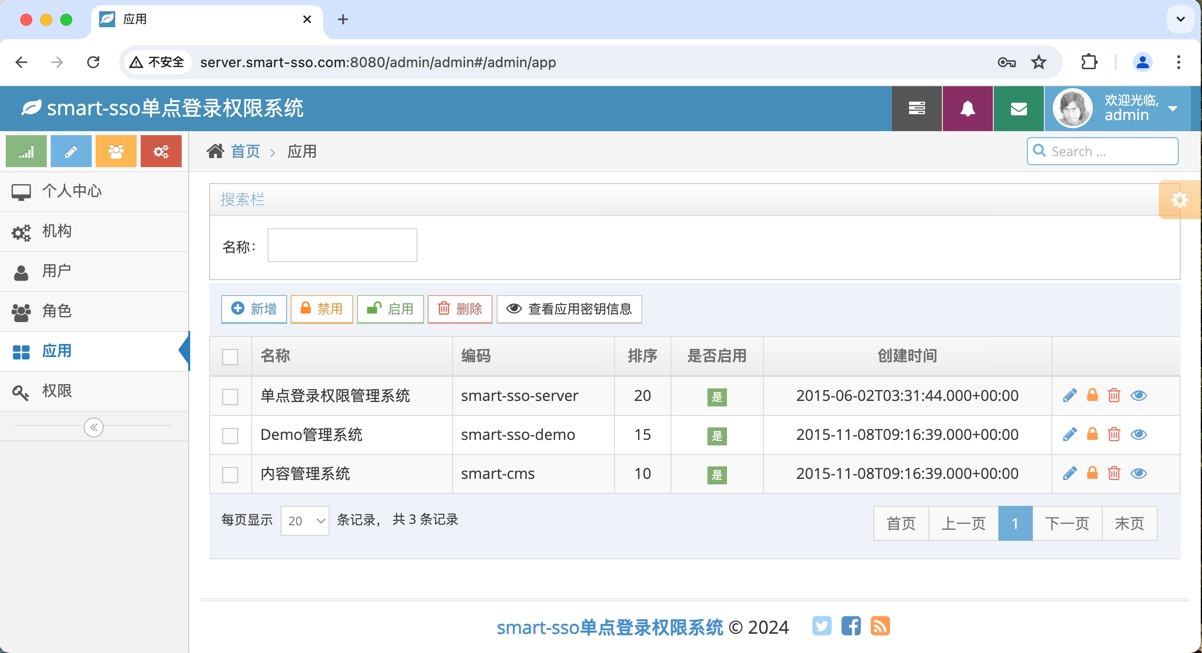
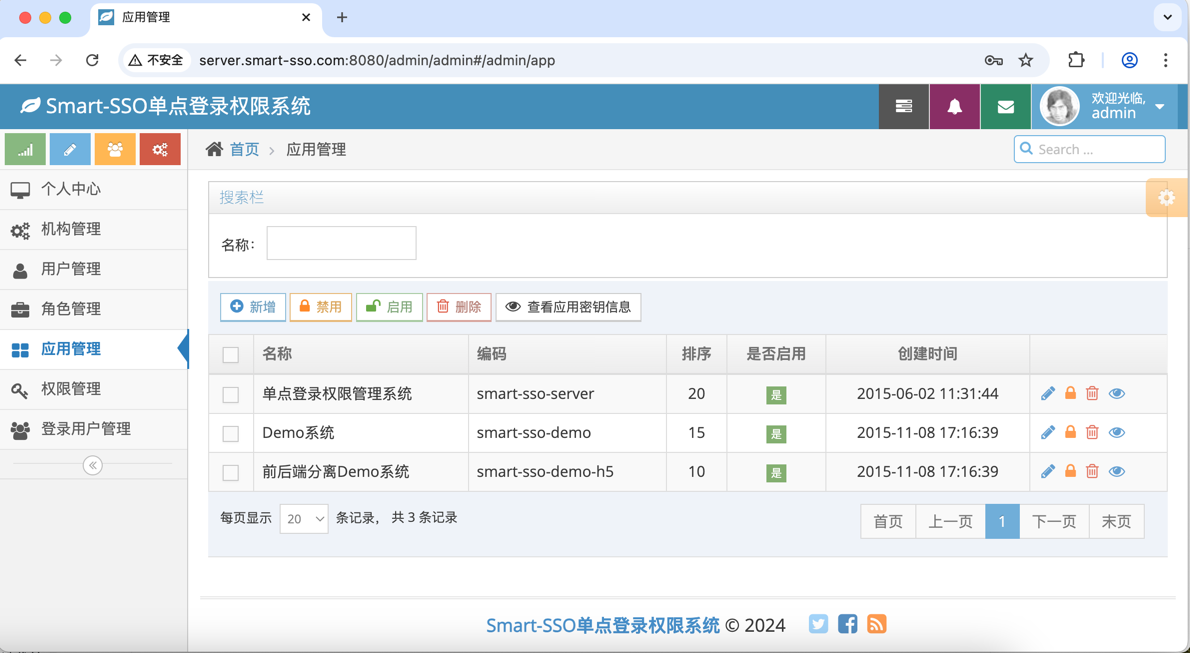
踢人下线
(cherry picked from commit cf85c4a8a406737efb93a9dbc9d4e849992dc878)

diff --git a/smart-sso-server/src/main/resources/templates/admin/permission.html b/smart-sso-server/src/main/resources/templates/admin/permission.html
@@ -1,4 +1,4 @@
-<title>权限</title>
+<title>权限管理</title>
 <#include "../common/common.html"/>
 
 <link rel="stylesheet" href="${_staticPath}/static/custom/zTree/css/metroStyle/metroStyle.css?v=1" />

diff --git a/smart-sso-server/src/main/resources/templates/admin/user.html b/smart-sso-server/src/main/resources/templates/admin/user.html
@@ -1,4 +1,4 @@
-<title>用户</title>
+<title>用户管理</title>
 <#include "../common/common.html"/>
 
 <link rel="stylesheet" href="${_staticPath}/static/custom/zTree/css/metroStyle/metroStyle.css?v=1" />

diff --git a/smart-sso-server/src/main/resources/templates/admin/login-user.html b/smart-sso-server/src/main/resources/templates/admin/login-user.html
@@ -1,4 +1,4 @@
-<title>登录用户</title>
+<title>登录用户管理</title>
 <#include "../common/common.html"/>
 
 <div class="row">

diff --git a/smart-sso-server/src/main/resources/templates/admin/app-edit.html b/smart-sso-server/src/main/resources/templates/admin/app-edit.html
@@ -1,4 +1,4 @@
-<title>应用</title>
+<title>应用管理</title>
 <#include "../common/common.html"/>
 
 <div class="page-header">

diff --git a/smart-sso-server/src/main/resources/templates/admin/office-edit.html b/smart-sso-server/src/main/resources/templates/admin/office-edit.html
@@ -1,4 +1,4 @@
-<title>机构</title>
+<title>机构管理</title>
 <#include "../common/common.html"/>
 
 <div class="page-header">

diff --git a/smart-sso-server/src/main/resources/templates/admin/user-edit.html b/smart-sso-server/src/main/resources/templates/admin/user-edit.html
@@ -1,4 +1,4 @@
-<title>用户</title>
+<title>用户管理</title>
 <#include "../common/common.html"/>
 
 <div class="page-header">

diff --git a/smart-sso-server/src/main/resources/templates/admin/app.html b/smart-sso-server/src/main/resources/templates/admin/app.html
@@ -1,4 +1,4 @@
-<title>应用</title>
+<title>应用管理</title>
 <#include "../common/common.html"/>
 
 <div class="row">

diff --git a/smart-sso-server/src/main/resources/templates/admin/office.html b/smart-sso-server/src/main/resources/templates/admin/office.html
@@ -1,4 +1,4 @@
-<title>机构</title>
+<title>机构管理</title>
 <#include "../common/common.html"/>
 
 <div class="row">

diff --git a/smart-sso-server/src/main/resources/templates/admin/role.html b/smart-sso-server/src/main/resources/templates/admin/role.html
@@ -1,4 +1,4 @@
-<title>角色</title>
+<title>角色管理</title>
 <#include "../common/common.html"/>
 
 <div class="row">

diff --git a/smart-sso-server/src/main/resources/templates/admin/role-edit.html b/smart-sso-server/src/main/resources/templates/admin/role-edit.html
@@ -1,4 +1,4 @@
-<title>角色</title>
+<title>角色管理</title>
 <#include "../common/common.html"/>
 
 
